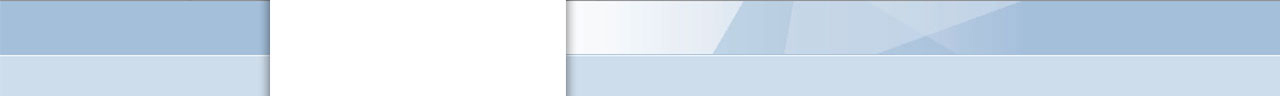
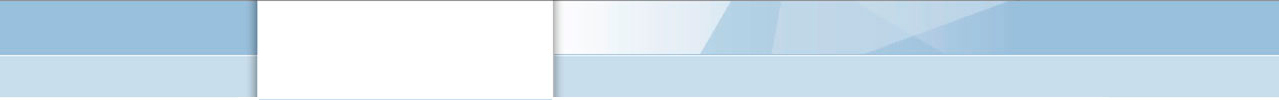
Atualização no Area de atuação e formulario de contato

Changed region(s): [[0.0, 0.0, 1.0, 1.0], [0.7623, 0.0, 0.7928, 0.1562], [0.7318, 0.1562, 0.7623, 0.2812]]

diff --git a/css/layout.css b/css/layout.css
@@ -19,7 +19,7 @@ root {
 img {border: none;}
 ul{list-style-type:none;}
 img {border: none;}
-p { font-family: 'square721_cn_btroman',Sans-Serif; text-align: justify; font-size: 13px; font-weight: normal; margin-bottom: 10px;}
+p { font-family: 'square721_cn_btroman',Sans-Serif; text-align: justify; font-size: 15px; font-weight: normal; margin-bottom: 10px;}
 h1, h2, h3, h4, h5, h6, ul, li, em, pre, code{
       padding: 0; margin: 0; line-height: 1.5em; font-size: 100%; font-weight: normal; font-style: normal; font-family:'square721_cn_btroman',Sans-Serif;
 }
@@ -40,7 +40,7 @@ margin: 0 auto -127px;
 #footer {height: 127px;}
 #footer {background-color: #f5f5f5;}
 
-.container { width: 763px; margin: 0 auto;}
+.container { width: 763px; margin: 0 auto; display: table;}
 .container .credit {margin: 20px 0;}
 
 /* HEADER */
@@ -73,16 +73,19 @@ margin: 0 auto -127px;
 	-o-transition: color .3s linear;
 	-moz-transition: color .3s linear;
 }
-.nav li a:visited { color:#fff; }
+.nav li a:visited { color:#000; }
 .nav li a:hover { color: #044089; text-decoration: none; }
 
 #menu2 { width: 590px; height: 35px; padding-top: 5px; padding-left: 10px; margin-bottom: 10px; color: #ccc; z-index: 1000; text-align: center; }
 #menu2 ul {list-style: none; margin: 0 ; padding: 0; line-height: 30px; z-index:99999; font: 'square721_cn_btroman', Arial, sans-serif;}
 
 #menu2 .nav li a { color: #fff};
+#menu2 .nav li a:visited { color: #fff};
+#menu2 .nav li a:hover { color: #044089; text-decoration: none; }
+
 
 /* CONTEÚDO */
-.content {padding: 10px;}
+.content {padding: 10px; display: table; width: 100%}
 .content p {margin-top: 20px;}
 .sombra {box-shadow: #cecece 0px 0px 5px 0px;}
 .textpadding {padding: 40px; }
@@ -90,11 +93,15 @@ margin: 0 auto -127px;
 .title {color: #354c9c; font-weight: bold; font-family: 'Cabin', sans-serif;}
 h3 {color: #292929; font-size: 16px;}
 
-.bgcolunas {background: #fff url(../imagens/fundo_colunas.jpg) top center no-repeat; height: 346px;}
+.bgcolunas {background: #fff url(../imagens/fundo_colunas.jpg) top center no-repeat; height: 420px;}
 .col1 {width: 30%;}
 .col2 {width: 31%;}
 .col3 {width: 31%;}
-.textcolunas {padding: 10px;  font-size: 14px; font-weight: normal; color: #636669;}
+.textcolunas {padding: 10px;  font-size: 14px; font-weight: normal; color: #636669; }
+.textcoluna1 {padding: 10px; width: 230px; float: left; margin-left: 10px;}
+.textcoluna2 {padding: 10px; width: 390px; float: right; margin-right: -10px;}
+
+.bullet ul {list-style-image: url(../imagens/bullet.png);}
 
 /* FORMULÀRIO */
 
@@ -114,6 +121,13 @@ form textarea {display: block; margin-bottom: 1em; border: 1px solid #ccc;}
 form input#enviar {clear: both; border: 1px solid #ccc; padding: 0.3em;}
 form select {display: block; margin-bottom: 1em; border: 1px solid #ccc; height: 1.5em; text-align: left; }
 .formspc {margin-left: 5px;}
+.search{
+	padding: 3px;
+	width: 100px;
+	background-color: #FFFFFF;
+	border: 1px #CCC solid;
+	background: #FFF url(../imagens/lupa.png) no-repeat right;
+}
 
 
 /* FOOTER */

diff --git a/atuacao.php b/atuacao.php
@@ -1,0 +1,44 @@
+<?php include('header2.php'); ?>
+		<div class="container sombra">
+			<div class="textpadding">
+				<div class="content">
+					<div class="fl"><img src="imagens/atuacao.jpg" alt=""></div>
+				</div>
+
+				<div class="content">
+					<p><h3 class="title">Histórico | Sobre a Kabel Weg Engenharia</h3></p>
+					<div class="textcoluna1">
+						<p>
+							<div class="bullet">
+							<ul>
+								<li>Introdução
+								<li>Avaliação da Eficiencia Energética</li>
+								<li>Consultorias</li>
+								<li>Instalaçoes</li>
+								<li>Laudos de Engenharia</li>
+								<li>Medições Elétricas</li>
+								<li>Montagens</li>
+								<li>Projetos de Engenharia</li>
+								<li>Projetos Lojas e Quiosques</li>
+							</ul>
+							</div>
+						</p>
+					</div>
+					<div class="textcoluna2">
+						<p>
+						Desde 2003 a Kabel Weg Engenharia (KWE) vem estabelecendo uma sólida reputação no mercado fornecendo uma gama completa de Serviços Técnicos, tais como estudos e projetos de engenharia, análises de viabilidade técnico-econômica para mudanças de tarifas de energia; medições de consumo e demanda, verificação de consumos de reativos e harmônicos, levantamento de dados e processamento de solicitações para aumento de carga e reformas de PC; laudos técnicos; execução de obras e montagens; além de consultorias diversas na área da engenharia elétrica, e outros.
+						</p><p>
+						Nossas soluções incluem recomendações de ações corretivas para ajudar a diminuir problemas futuros no sistema de energia, de uso de energia elétrica de forma eficaz para aumentar a produtividade das empresas ou moradias de forma sustentável, na obtenção de equipamentos eficientes com tecnologia moderna e na redução de custos e tempo de instalações e montagens.
+						</p><p>
+						A Kabel Weg Engenharia prima pela competência de sua equipe e consequente eficiência e qualidade de seus serviços em cada área de atuação. A orientação da empresa é no sentido de reduzir os custos do previstos sem comprometer a qualidade, cumprir prazos e exceder as expectativas ao longo de cada fase do projeto, do planejamento à execução.
+						</p>
+					</div>
+				</div>
+			</div>
+		</div>
+
+		<div id="footer" class="bgfooter">
+		<?php include('footer2.php'); ?>
+		</div>
+    </body>
+</html>

diff --git a/contato.php b/contato.php
@@ -13,9 +13,9 @@
 						<fieldset>
 							<form action="">
 								<div class="fl">
-									<label for="nome">Nome</label>
-									<label for="">Empresa</label>
-									<label for="">Email</label>
+									<label for="nome">Nome do Contato</label>
+									<label for="">Nome da Empresa</label>
+									<label for="">Email Contato</label>
 									<label for="">Cidade</label>
 									<label for="">Estado</label>
 									<label for="">Telefone Comercial</label>
@@ -38,6 +38,13 @@
 
 							</form>
 						</fieldset>
+				</div>
+				<div class="content cls textpadding">
+					<p>
+					Tel.: 21 2512-1879 <br>
+					Obrigado por entrar em contato com a Kabel Weg Engenharia (KWE) <br>
+					Sua informação será sempre guardada com privacidade e nunca compartilhada com terceiros.
+					</p>
 				</div>
 			</div>
 		</div>

diff --git a/header2.php b/header2.php
@@ -46,7 +46,7 @@
 				<nav class="nav">
 					<ul><li><a href="index.php">Home</a></li>
 						<li><a href="empresa.php" title="">Empresa</a></li>
-						<li><a href="#" title="">Área de Atuação</a></li>
+						<li><a href="atuacao.php" title="">Área de Atuação</a></li>
 						<li><a href="clientes.php" title="">Clientes</a></li>
 						<li><a href="contato.php" title="">Contato</a></li>
 						<li><a href="orcamento.php" title="">Orçamento</a></li>
@@ -54,7 +54,7 @@
 				</nav>
 				</div>
 
-				<div id="busca" class="fr"> <input type="text" name="" value="" placeholder=""  size="15"> </div>
+				<div id="busca" class="fr"> <input type="text" name="" class="search" value="" placeholder=""  size="15"> </div>
 			</div>
 
 		</div>

diff --git a/header.php b/header.php
@@ -53,7 +53,7 @@
 				</nav>
 			</div>
 
-			<div id="busca" class="fr"> <input type="text" name="" value="" placeholder=""  size="10"> </div>
+			<div id="busca" class="fr"> <input type="text" name="" class="search" value="" placeholder="" > </div>
 		</div>
 
 </div>

diff --git a/index.php b/index.php
@@ -5,7 +5,6 @@
 			</div>
 
 		</div>
-		<br>
 		<div class="bgcolunas">
 			<div class="container">
 				<div class="col1 fl textcolunas">
